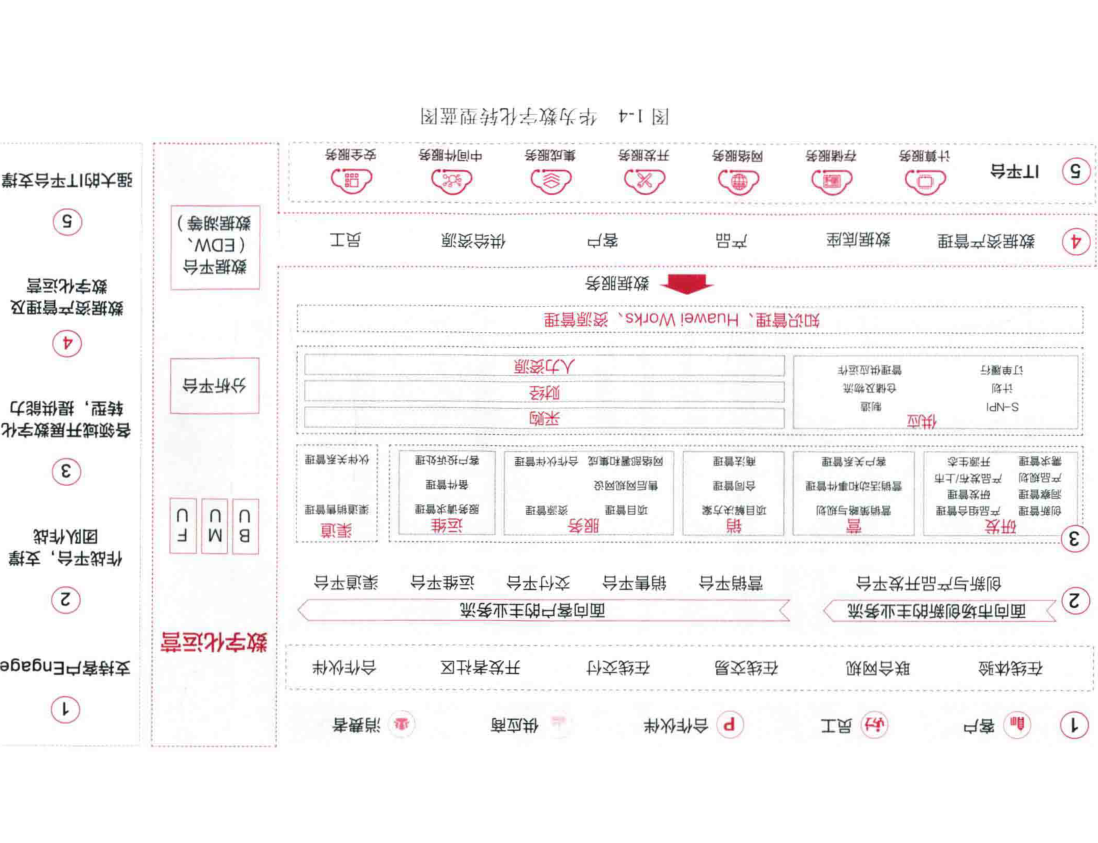
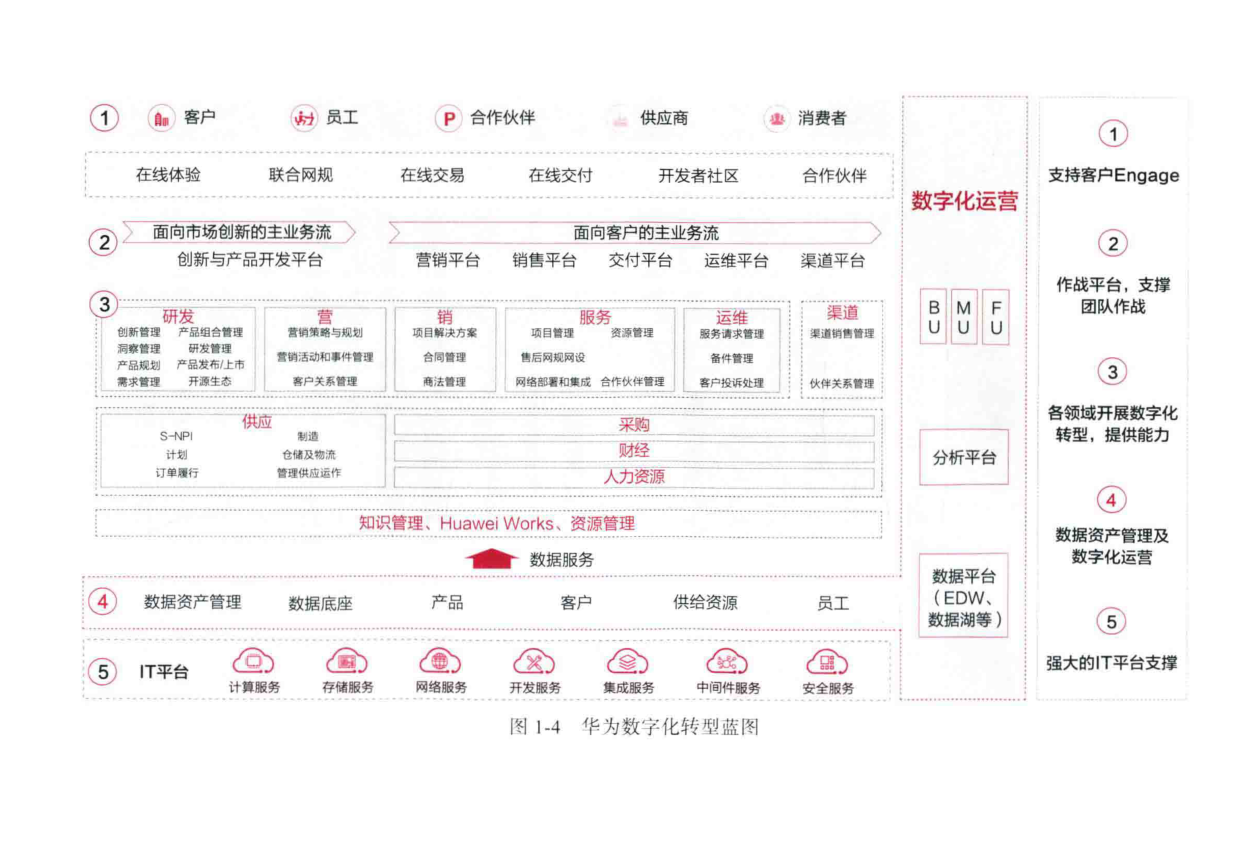
docs: correct image rotation and precision cropping for chapter 1

diff --git a/数据治理/参考文档/数据之道/ai_cropper.py b/数据治理/参考文档/数据之道/ai_cropper.py
@@ -1,0 +1,84 @@
+import os
+from pathlib import Path
+from PIL import Image
+from google import genai
+from google.genai import types
+from dotenv import load_dotenv
+
+# Load environment variables
+load_dotenv(Path("/Users/david/david_project/.env"))
+
+# Configure Gemini API
+api_key = os.getenv("GEMINI_API_KEY")
+if not api_key:
+    raise ValueError("GEMINI_API_KEY not found in .env file")
+
+client = genai.Client(api_key=api_key)
+
+def detect_and_crop(image_path, target_path, figure_name):
+    print(f"Detecting boundary for {figure_name} on {image_path}...")
+    
+    with open(image_path, 'rb') as f:
+        image_data = f.read()
+
+    prompt = f"Find the bounding box of the diagram titled '{figure_name}' in this image. Return ONLY the coordinates as [ymin, xmin, ymax, xmax] in 0-1000 scale. No other text."
+
+    response = client.models.generate_content(
+        model="gemini-2.5-flash", 
+        contents=[
+            types.Content(
+                parts=[
+                    types.Part.from_bytes(data=image_data, mime_type="image/png"),
+                    types.Part.from_text(text=prompt)
+                ]
+            )
+        ]
+    )
+
+    text = response.text.strip()
+    print(f"AI Output: {text}")
+    
+    # Extract coordinates [ymin, xmin, ymax, xmax]
+    import re
+    match = re.search(r'\[(\d+),\s*(\d+),\s*(\d+),\s*(\d+)\]', text)
+    if not match:
+        print(f"Failed to parse coordinates for {figure_name}")
+        return
+
+    ymin, xmin, ymax, xmax = map(int, match.groups())
+    
+    # Process image
+    img = Image.open(image_path)
+    w, h = img.size
+    
+    # Convert normalized to pixel coordinates
+    left = xmin * w / 1000
+    top = ymin * h / 1000
+    right = xmax * w / 1000
+    bottom = ymax * h / 1000
+    
+    # Add a small margin if possible
+    margin = 5
+    left = max(0, left - margin)
+    top = max(0, top - margin)
+    right = min(w, right + margin)
+    bottom = min(h, bottom + margin)
+
+    img.crop((left, top, right, bottom)).save(target_path)
+    print(f"Saved cropped {figure_name} to {target_path}")
+
+def main():
+    images_dir = Path("/Users/david/david_project/智能体/数据治理/参考文档/数据之道/images")
+    high_res_dir = Path("/Users/david/david_project/datapipeline/high_res")
+    
+    tasks = [
+        (Path("/Users/david/david_project/datapipeline/thumbnails/page_28.png"), images_dir / "图1-3.png", "图 1-3"),
+        (high_res_dir / "page_34.png", images_dir / "图1-6.png", "图 1-6"),
+        (high_res_dir / "page_35.png", images_dir / "图1-7.png", "图 1-7"),
+    ]
+    
+    for src, dst, name in tasks:
+        detect_and_crop(src, dst, name)
+
+if __name__ == "__main__":
+    main()

diff --git a/数据治理/参考文档/数据之道/chapter-01-detailed.md b/数据治理/参考文档/数据之道/chapter-01-detailed.md
@@ -53,6 +53,8 @@
     *   **更优质的服务**
     *   **更低的成本**
 
+![数字化转型目标模型 (图1-3)](images/图1-3.png)
+
 ### 1.2.2 华为数字化转型蓝图及对数据治理的要求
 
 2017年，华为基于愿景确定了数字化转型的蓝图和框架，统一规划、分层开展，最终实现客户交互方式的转变，实现内部运营效率和效益的提升。华为数字化转型蓝图包括5项举措。
@@ -106,6 +108,9 @@ _其中，举措4涉及数据治理和数字化运营，是华为数字化转型
         *   **数据创新**，成为差异化竞争优势：基于数据的用户洞察，发现新的市场机会点。
 
 **华为数据治理的两个阶段 (图1-5)**
+
+![华为数据治理的两个阶段 (图1-5)](images/图1-5.png)
+
 该图表对比了两个阶段在数据工作、数据价值和管理诉求上的差异：
 *   **第一阶段 (数据产生与打通)**
     *   **数据工作**：聚焦于数据产生环节，解决“搞清楚、是什么、为什么发生、谁来确认”等问题。数据流主要在业务流程内部，如商机->线索->客户->...->收入。
@@ -124,6 +129,9 @@ _其中，举措4涉及数据治理和数字化运营，是华为数字化转型
 为确保数据工作的愿景与目标达成，需要实现数据自动采集、对象/规则/过程数字化、数据清洁、安全共享等特性。
 
 **华为数据治理的愿景与目标 (图1-6)**
+
+![华为数据治理的愿景与目标 (图1-6)](images/图1-6.png)
+
 这是一个中心辐射图，核心是愿景和目标，周围环绕着实现这些目标所需的特性和管理扩展：
 *   **实现特性**：业务对象、规则、过程数字化；数据联接；数据实时可视；数据透明；数据清洁；数据采集/处理智能化。
 *   **管理扩展**：数据管理由企业扩展到生态伙伴；数据敏捷自助；安全共享（隐私、授权、权限等）；数据合规；算法模型（AI）。
@@ -133,6 +141,9 @@ _其中，举措4涉及数据治理和数字化运营，是华为数字化转型
 作为非数字原生企业，我们认为数字化转型的关键要素之一是在现实世界的基础上构建一个跨越孤立系统、承载业务的“**数字孪生**”的数字世界。通过在数字世界汇聚、联接与分析数据，进行描述、诊断和预测，最终指导IT系统的改进。
 
 **华为数据工作建设的整体思路 (图1-7)**
+
+![华为数据工作建设的整体思路 (图1-7)](images/图1-7.png)
+
 该图描绘了现实世界与数字世界的交互：
 1.  **现实世界 (业务流/角色)**：存在业务数据和业务结果数据。
 2.  **数字化过程**：通过“描述、检测、诊断、预测”等手段，将现实世界的“对象”、“过程”、“规则”进行数字化，并感知汇聚到数字世界。
@@ -148,6 +159,9 @@ _其中，举措4涉及数据治理和数字化运营，是华为数字化转型
 5.  **数据治理**：为保障各业务领域数据工作的有序开展，需建立统一的数据治理能力，如数据体系、数据分类、数据感知、数据质量、安全与隐私等。
 
 **华为数据工作建设的整体框架图 (图1-8)**
+
+![华为数据工作建设的整体框架图 (图1-8)](images/图1-8.png)
+
 这是一个详细的架构图，自下而上分为多个层次：
 *   **数据源**：包括销售、交付、供应、人力资源等内部数据，以及外部数据。
 *   **数据湖**：通过明确数据Owner、发布数据标准、认证数据源、定义数据密级、制定数据质量方案、注册元数据等方式，将数据源的数据通过物理入湖和虚拟入湖两种方式汇入。
